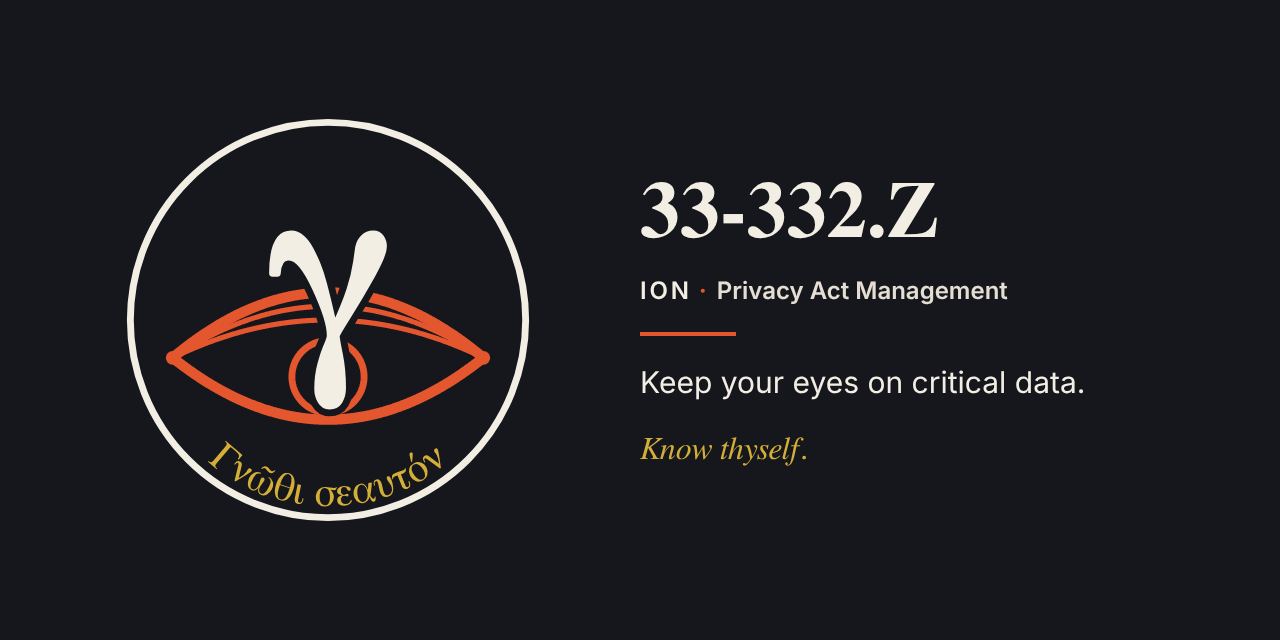
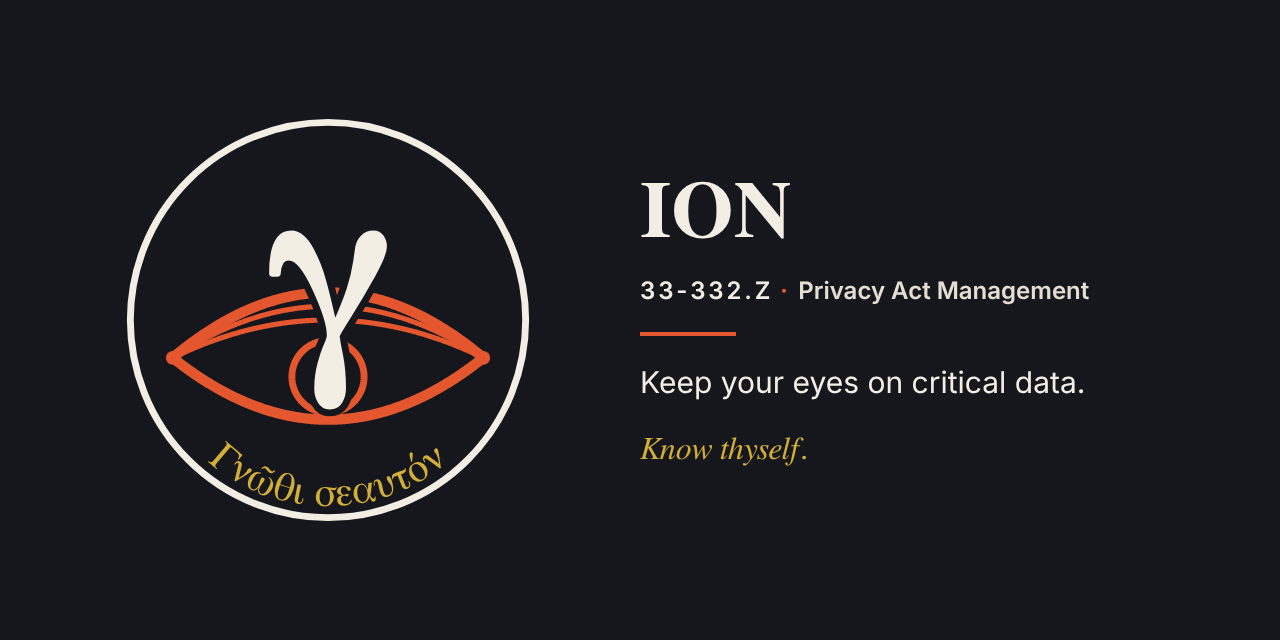
README social preview card: new format
New card format (approved by the Maintainer, 2026-11-26): name; publication
source and label, or a label alone; purpose; motto. Built by the kit script
scripts/social_preview.py from docs/brand/social-cards.json
(rhope-ops/archimedes_lever#229).

Claude-Session: https://claude.ai/code/session_01PyXpdSD9Vrbifvr1Bafxro

Changed region(s): [[0.5, 0.2812, 0.75, 0.375], [0.5, 0.4375, 0.875, 0.4688]]

diff --git a/README.md b/README.md
@@ -1,4 +1,4 @@
-![33-332.Z: Privacy Act Management](docs/assets/33-332.Z-social-preview.png)
+![Ion: 33-332.Z · Privacy Act Management](docs/assets/33-332.Z-social-preview.png)
 
 # Ion
 **DoD365 PII Reporter**
